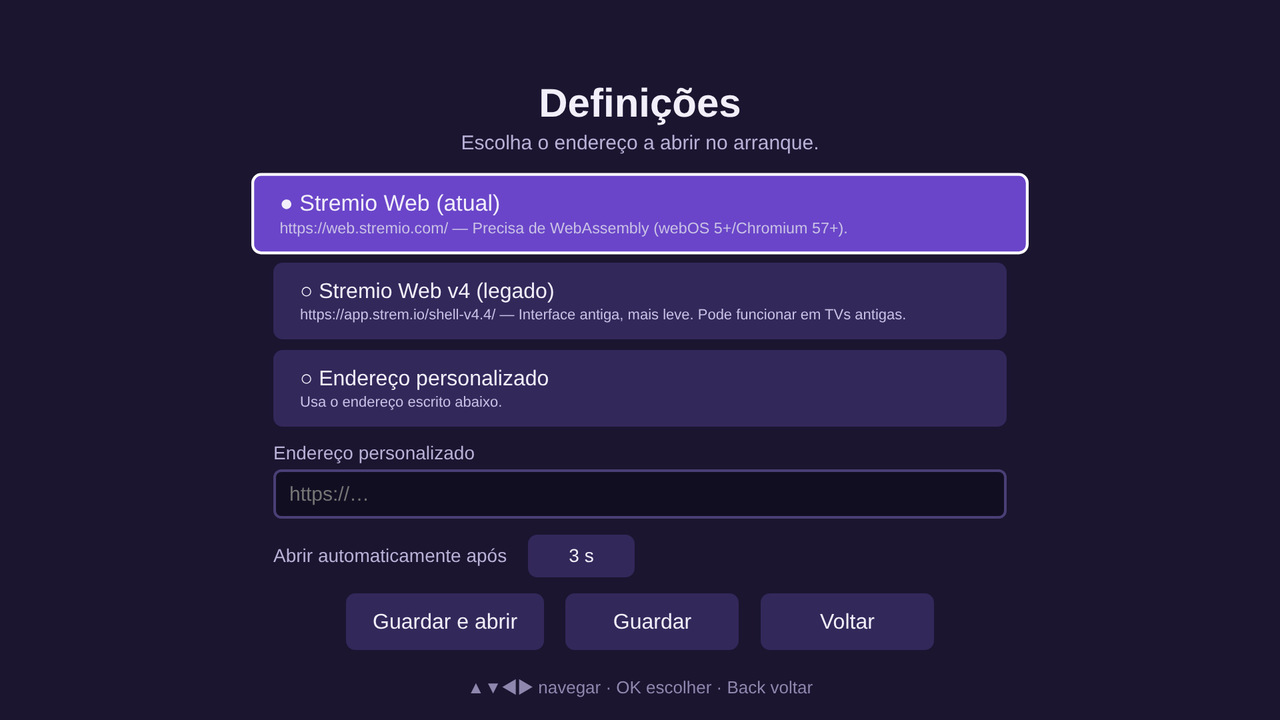
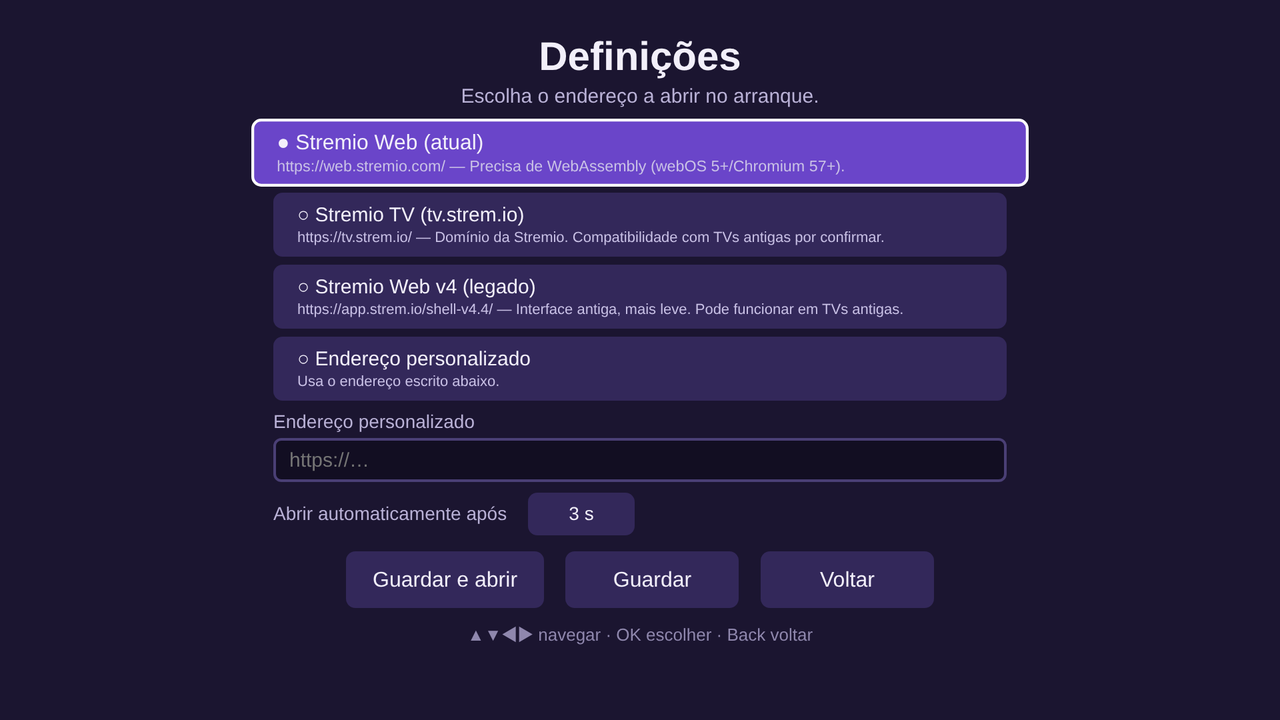
Adiciona o tv.strem.io à lista de endereços
- Nova opção «Stremio TV (tv.strem.io)» nas Definições, ao lado do
  Stremio Web atual (web.stremio.com), da interface legada v4 e do
  endereço personalizado.
- O aviso de incompatibilidade passa a sugerir também o Stremio TV.
- Ecrã de definições mais compacto para as quatro opções caberem em
  1080 px.
- README e screenshots atualizados.
- Versão 1.0.1.

Claude-Session: https://claude.ai/code/session_01XrKzq9mYz6RzPFopsZ1VMq

Changed region(s): [[0.1875, 0.0611, 0.8125, 0.9167], [0.375, 0.9472, 0.625, 0.9778]]

diff --git a/app/js/main.js b/app/js/main.js
@@ -18,6 +18,13 @@
       needsWasm: true
     },
     {
+      id: 'tv',
+      name: 'Stremio TV (tv.strem.io)',
+      url: 'https://tv.strem.io/',
+      note: 'Domínio da Stremio. Compatibilidade com TVs antigas por confirmar.',
+      needsWasm: false
+    },
+    {
       id: 'v4',
       name: 'Stremio Web v4 (legado)',
       url: 'https://app.strem.io/shell-v4.4/',
@@ -181,8 +188,8 @@
     }
     if (targetNeedsWasm() && !info.wasm) {
       problems.push('O motor web desta TV não suporta WebAssembly, que o Stremio Web atual ' +
-        'precisa para funcionar. É provável que fique em ecrã preto. Experimente a ' +
-        'interface legada (v4) nas Definições.');
+        'precisa para funcionar. É provável que fique em ecrã preto. Experimente o ' +
+        'Stremio TV ou a interface legada (v4) nas Definições.');
     }
 
     switchScreen('splash');

diff --git a/app/css/style.css b/app/css/style.css
@@ -104,3 +104,12 @@ h2 { font-size: 60px; margin: 0 0 8px; font-weight: 600; }
 }
 .field input.focused { -webkit-transform: none; transform: none; }
 .row .btn { margin-left: 24px; }
+
+/* Ecrã de definições mais compacto para caber em 1080 px. */
+#settings { padding-top: 50px; }
+#settings .sub { margin-bottom: 20px; }
+#settings .list .btn { padding: 12px 32px; margin-bottom: 12px; font-size: 30px; }
+#settings .field, #settings .row { margin-top: 16px; }
+#settings .field input { padding: 12px 20px; }
+#settings .actions { margin-top: 24px; }
+#settings .hint { margin-top: 24px; }

diff --git a/README.md b/README.md
@@ -23,6 +23,8 @@ arranque que verifica a compatibilidade da TV e depois carrega o Stremio Web em 
 - **Verifica a ligação à Internet** antes de abrir.
 - **Vários endereços à escolha:**
   - Stremio Web atual (`https://web.stremio.com/`);
+  - Stremio TV (`https://tv.strem.io/`), num domínio da Stremio (ainda não
+    se confirmou se funciona em TVs antigas);
   - interface legada v4 (`https://app.strem.io/shell-v4.4/`), mais leve;
   - endereço personalizado (por exemplo uma instância própria do
     [stremio-web](https://github.com/Stremio/stremio-web)).
@@ -45,8 +47,8 @@ O motor web das TVs LG é:
 | 2020+     | 5.x+ | Chromium 68+ | ✅ |
 
 Numa TV anterior a 2020, o mais provável é o Stremio Web atual **não funcionar**.
-Nesse caso a app avisa e pode escolher, nas Definições, a interface legada v4 ou um
-endereço personalizado.
+Nesse caso a app avisa e pode escolher, nas Definições, o Stremio TV (`tv.strem.io`),
+a interface legada v4 ou um endereço personalizado.
 
 > O endereço da interface v4 é antigo e pode já não estar disponível. Abra-o num
 > computador antes de o usar na TV.
@@ -104,7 +106,7 @@ npm install
 npm run package
 ```
 
-O ficheiro fica em `dist/io.github.geneiros.stremiowrapper_1.0.0_all.ipk`.
+O ficheiro fica em `dist/io.github.geneiros.stremiowrapper_1.0.1_all.ipk`.
 
 ### 2a. Instalar com o Developer Mode (método oficial da LG)
 
@@ -143,7 +145,7 @@ npx ares-device-info --device tv
    Instale a app:
 
 ```bash
-npx ares-install --device tv dist/io.github.geneiros.stremiowrapper_1.0.0_all.ipk
+npx ares-install --device tv dist/io.github.geneiros.stremiowrapper_1.0.1_all.ipk
 ```
 
 6. A app **Stremio Web** aparece na lista de aplicações da TV. Também a pode abrir a partir do computador:
